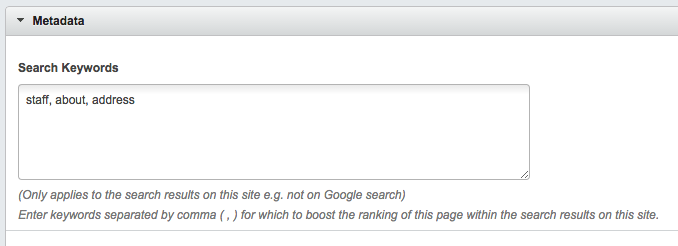
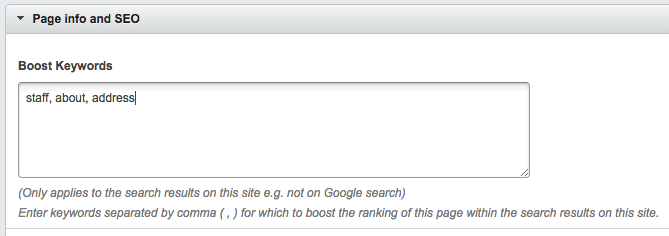
Rename boost fields

diff --git a/code/extensions/CwpSearchBoostExtension.php b/code/extensions/CwpSearchBoostExtension.php
@@ -26,7 +26,11 @@ class CwpSearchBoostExtension extends DataExtension {
 	public function updateCMSFields(FieldList $fields) {
 		parent::updateCMSFields($fields);
 		
-		$boostTitle = _t('CwpSiteTreeSearchBoost.SearchBoost', 'Search Keywords');
+		// Rename metafield
+		$meta = $fields->fieldByName('Root.Main.Metadata');
+		$meta->setTitle(_t('CwpSearchBoostExtension.PAGEINFO', 'Page info and SEO'));
+		
+		$boostTitle = _t('CwpSiteTreeSearchBoost.SearchBoost', 'Boost Keywords');
 		$boostNote = _t('CwpSiteTreeSearchBoost.SearchBoostNote', '(Only applies to the search results on this site e.g. not on Google search)');
 		$boostDescription = _t(
 			'CwpSiteTreeSearchBoost.SearchBoostDescription',
